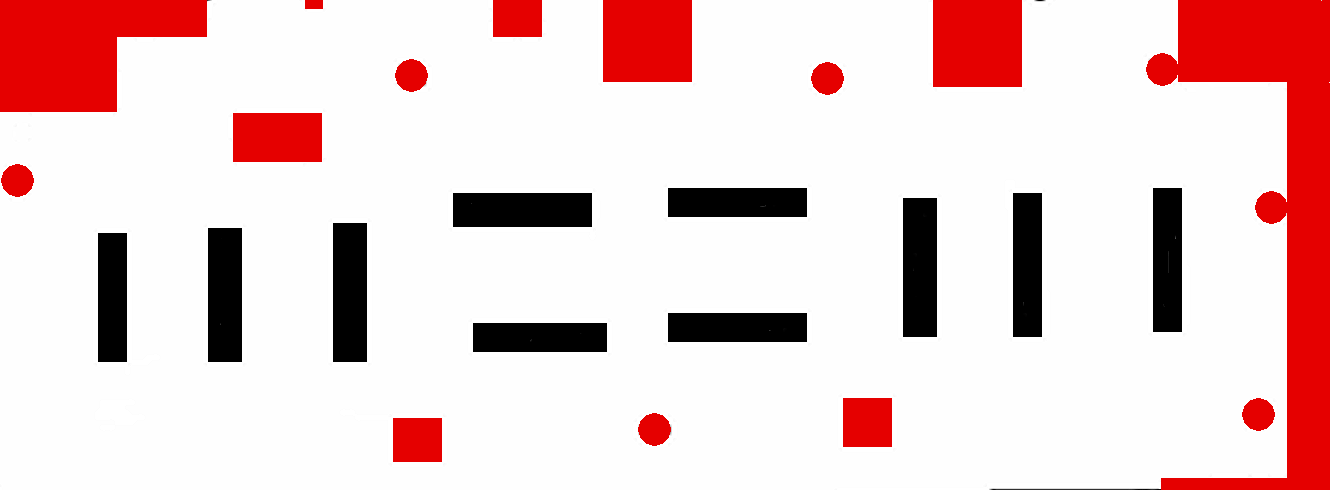
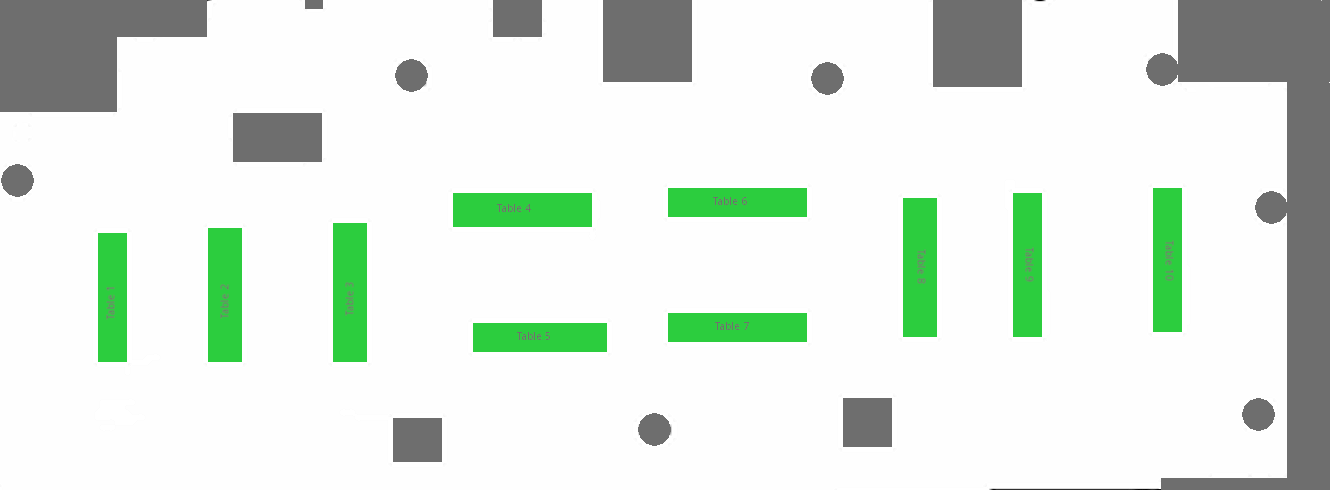
sensor default locations added

diff --git a/src/gh_twin/gui/dashboard_page.py b/src/gh_twin/gui/dashboard_page.py
@@ -32,19 +32,20 @@ from lupin_greenhouse_msgs.msg import TagReading
 
 import random
 import math
+import json
 
 
 
 # Constants
-MAP_WIDTH_PX  = 266*2*2.7
+MAP_WIDTH_PX  = 266*2*2.85
 MAP_HEIGHT_PX = 600
 TIMEOUT_STATUS_OFFLINE = 5
 MAP_RESOLUTION = 98*0.04/MAP_HEIGHT_PX  # 1px/m
-map_origin_px = [920, MAP_HEIGHT_PX-30]
+map_origin_px = [MAP_WIDTH_PX, MAP_HEIGHT_PX-30]
 #map_origin_px = [0, 570]
 plant_data_file = 'plants.yaml'
 bug_data_file = 'bugs.yaml'
-
+sensor_data_file = 'sensortag_locations.json'
 
 CAMERA_TOPICS = {
     'None': None,
@@ -110,12 +111,12 @@ alert_msgs = []
 # ============================================================
 # STATIC DATA
 # ============================================================
-time_points = [
-    '10:00',
-    '10:05',
-    '10:10',
+# time_points = [
+#     '10:00',
+#     '10:05',
+#     '10:10',
 
-]
+# ]
 
 sensor_charts = []
 
@@ -124,10 +125,26 @@ plants = yaml.safe_load(open(plant_data_file, 'r'))
 
 bugs = yaml.safe_load(open(bug_data_file, 'r'))
 
-sensors = [
-    {'id': 'S1', 'x': 1070, 'y': 180, 'type': 'Humidity', 'data': [22,22.4,22.8] },
-    {'id': 'S2', 'x': 770, 'y': 120, 'type': 'Temperature', 'data': [24,24.5,25]},
-]
+with open("sensortag_locations.json", "r") as f:
+    sensor_data = json.load(f)
+    
+sensors_new = []
+
+for tag_id, info in sensor_data["tags"].items():
+    x = info["x"]
+    y = info["y"]
+    
+    x = x/MAP_RESOLUTION
+    y = MAP_WIDTH_PX - y/(266*0.04/MAP_WIDTH_PX) - 400
+    
+    sensor_ind = {'id': tag_id, 'x': y, 'y':x, 'humidity': [22,22.4,22.8], 'time': [0,1,2] }
+    
+    sensors_new.append(sensor_ind)
+
+# sensors = [
+#     {'id': 'S1', 'x': 1070, 'y': 180, 'type': 'Humidity', 'data': [22,22.4,22.8] },
+#     {'id': 'S2', 'x': 770, 'y': 120, 'type': 'Temperature', 'data': [24,24.5,25]},
+# ]
 
 SENSOR_MODES = [
     'soil_moisture',
@@ -145,26 +162,26 @@ def get_default_sensor_mode(sensor):
             return mode
     return None
 
-sensors_new = [
-    {
-        'id': 'S1',
-        'x': 1070, 'y': 180,
-        'humidity': [22,22.4,22.8],
-        'temperature': [24,24.5,25],
-        'co2': [400,410,420],
-        'light': [300,320,350],
-        'time': [0,1,2]
-    },
-    {
-        'id': 'S2',
-        'x': 770, 'y': 120,
-        'humidity': [22,22.4,22.8],
-        # 'temperature': [24,24.5,25],
-        'co2': [400,410,420],
-        'light': [300,320,350],
-        'time': [0,1,2]
-    }
-]
+# sensors_new = [
+#     {
+#         'id': 'S1',
+#         'x': 1070, 'y': 180,
+#         'humidity': [22,22.4,22.8],
+#         'temperature': [24,24.5,25],
+#         'co2': [400,410,420],
+#         'light': [300,320,350],
+#         'time': [0,1,2]
+#     },
+#     {
+#         'id': 'S2',
+#         'x': 770, 'y': 120,
+#         'humidity': [22,22.4,22.8],
+#         # 'temperature': [24,24.5,25],
+#         'co2': [400,410,420],
+#         'light': [300,320,350],
+#         'time': [0,1,2]
+#     }
+# ]
 
 bridge = CvBridge()
 